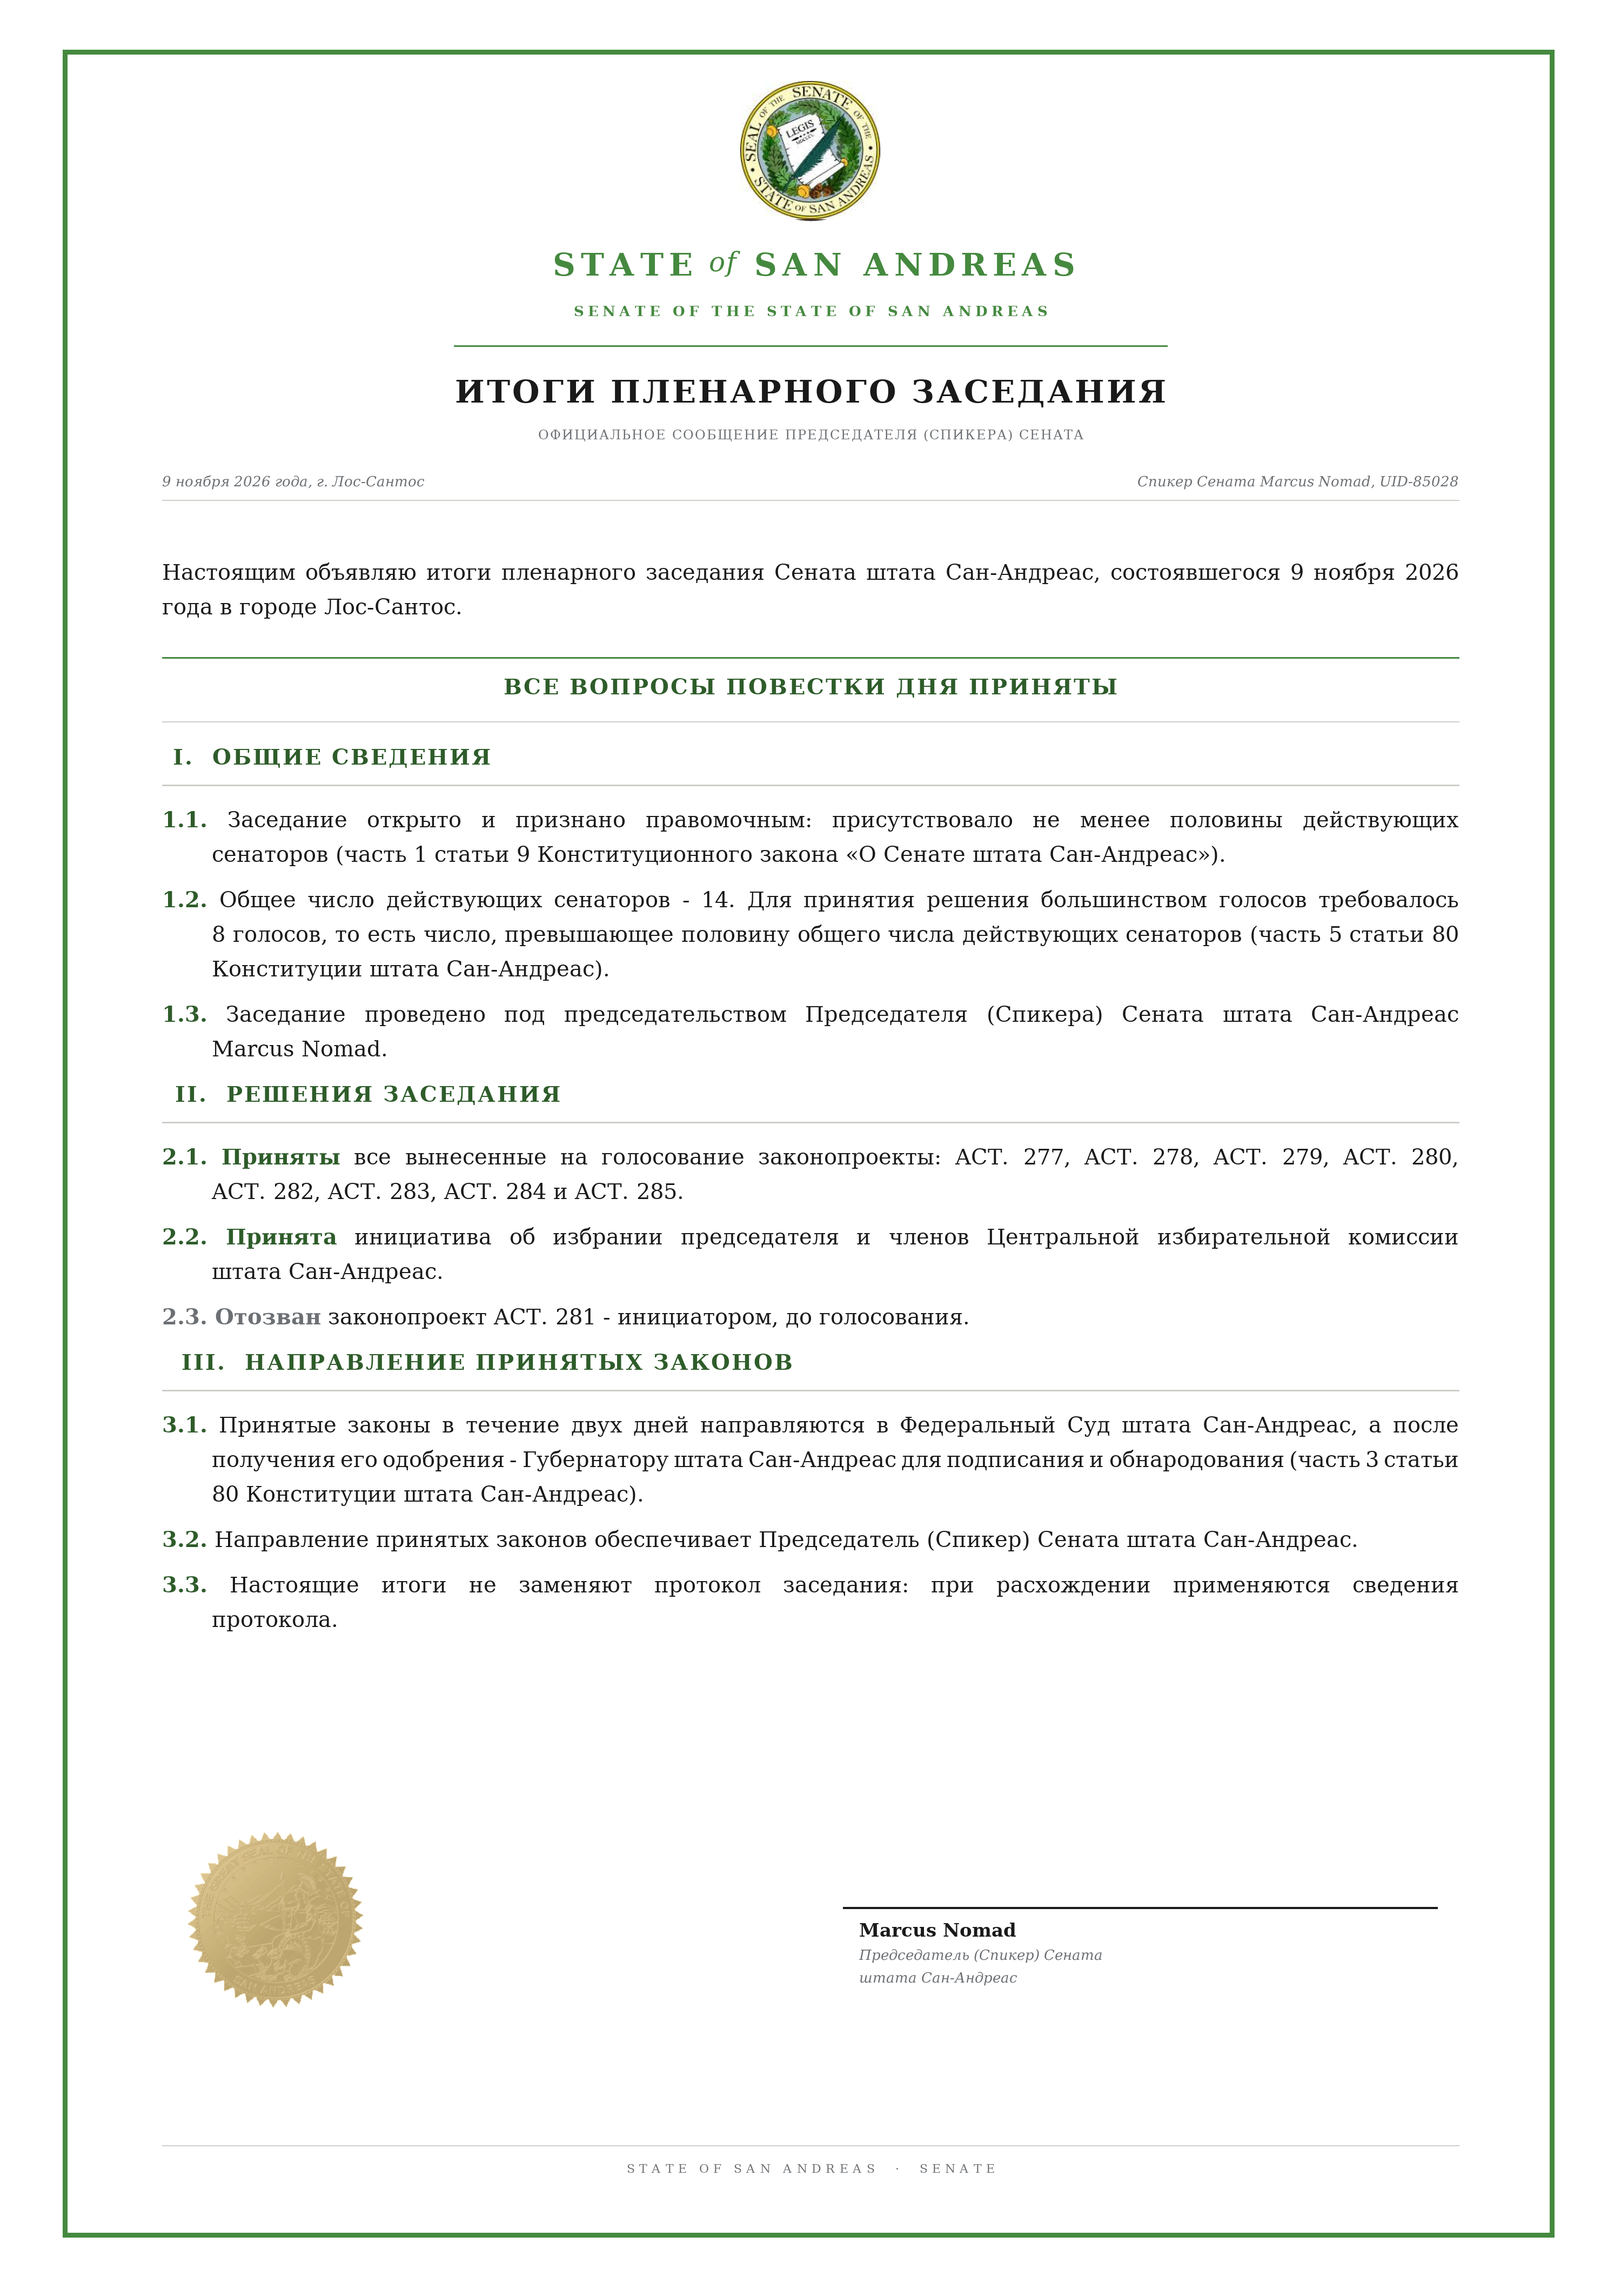
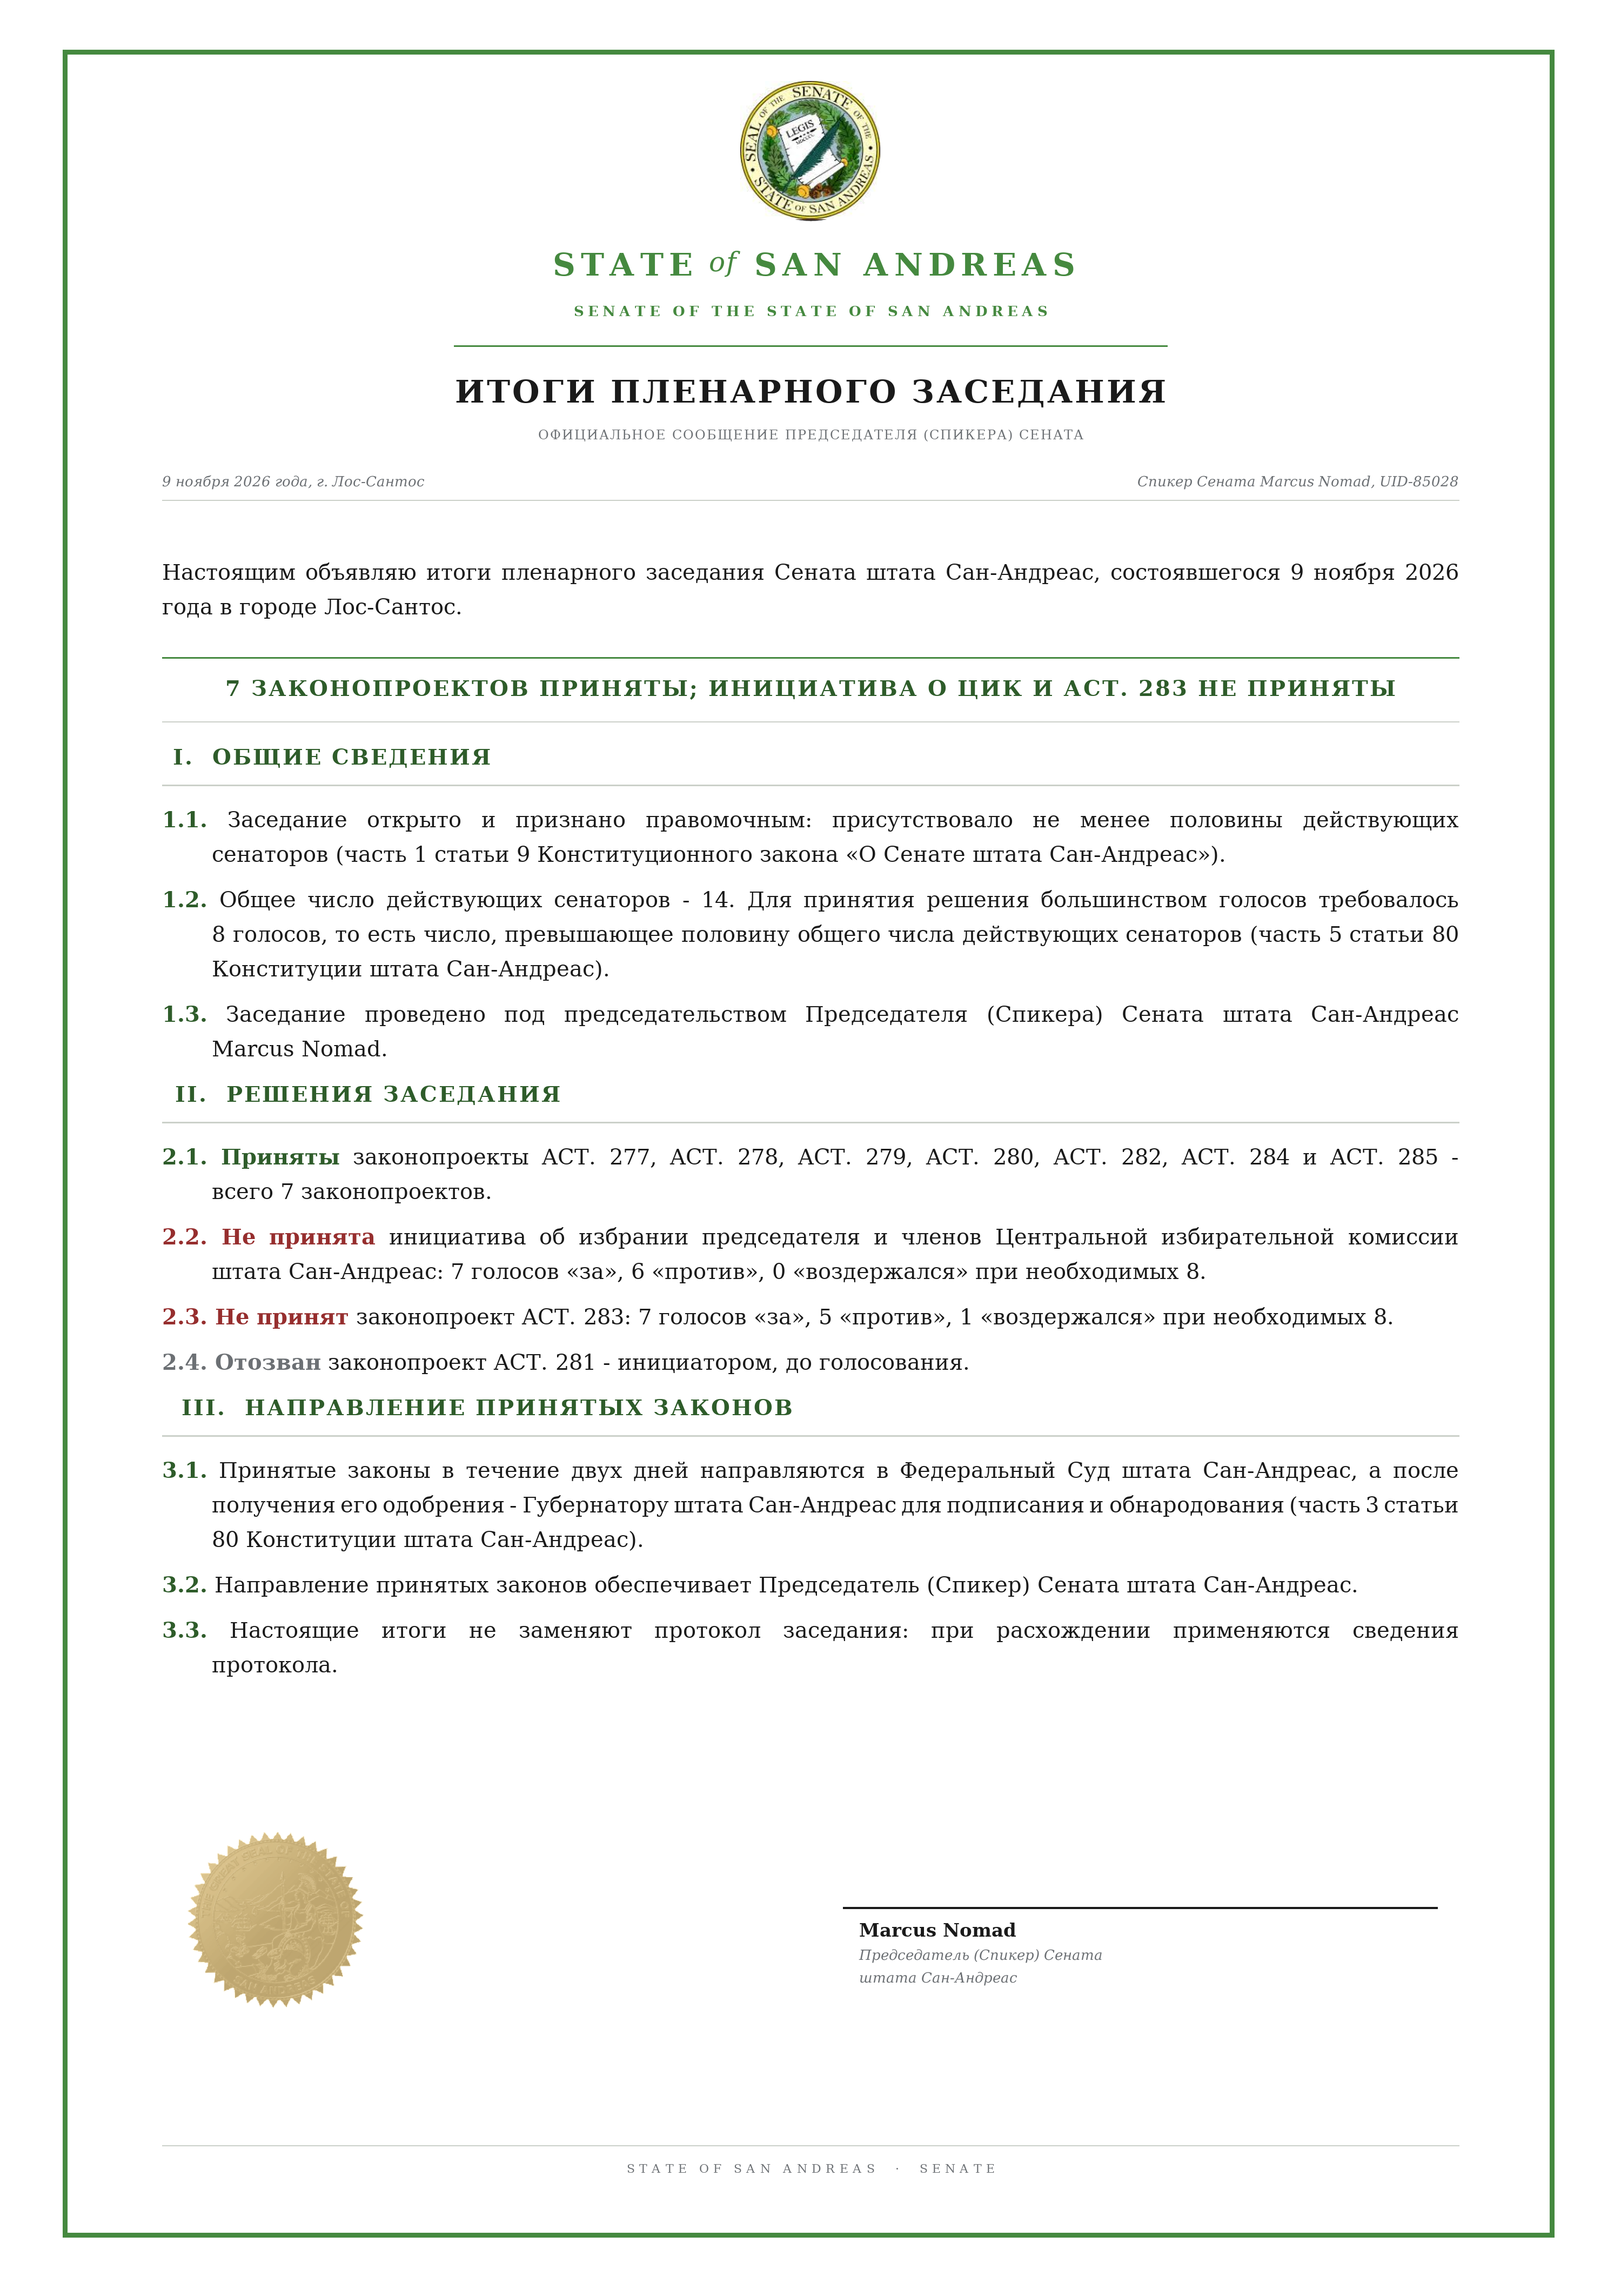
Сенат: итоги - ЦИК 7/6/0 и ACT. 283 7/5/1 не приняты, приняты 7 законопроектов

diff --git a/tools/make_senat_results_png.py b/tools/make_senat_results_png.py
@@ -163,13 +163,16 @@ def heading(d, y, text, size=30, draw=True):
 # ------------------------------------------------------------------ контент
 
 def essence(d, y, size, draw=True):
-    """Одна строка-суть вместо любых итогов голосования."""
+    """Одна строка-суть вместо итогов голосования."""
     h = 118
+    text = "7 ЗАКОНОПРОЕКТОВ ПРИНЯТЫ; ИНИЦИАТИВА О ЦИК И ACT. 283 НЕ ПРИНЯТЫ"
+    fs = 40
+    while fs > 22 and tw(d, text, F(FB, fs)) + 3 * (len(text) - 1) > BODY_W - 60:
+        fs -= 1
     if draw:
         d.line([(BODY_L, y), (BODY_R, y)], fill=GREEN, width=3)
         d.line([(BODY_L, y + h), (BODY_R, y + h)], fill=RULE, width=2)
-    tracked(d, y + 30, "ВСЕ ВОПРОСЫ ПОВЕСТКИ ДНЯ ПРИНЯТЫ",
-            F(FB, 40), 3, GREEN_D, draw=draw)
+        tracked(d, y + (h - fs) // 2 - 6, text, F(FB, fs), 3, GREEN_D, draw=draw)
     return y + h
 
 
@@ -202,12 +205,16 @@ def section_common(d, y, size, draw=True):
 def section_decisions(d, y, size, draw=True):
     items = [
         [("2.1. Приняты", "b", GREEN_D),
-         (" все вынесенные на голосование законопроекты: ACT. 277, ACT. 278, "
-          "ACT. 279, ACT. 280, ACT. 282, ACT. 283, ACT. 284 и ACT. 285.", "r", INK)],
-        [("2.2. Принята", "b", GREEN_D),
+         (" законопроекты ACT. 277, ACT. 278, ACT. 279, ACT. 280, ACT. 282, ACT. 284 и "
+          "ACT. 285 - всего 7 законопроектов.", "r", INK)],
+        [("2.2. Не принята", "b", RED),
          (" инициатива об избрании председателя и членов Центральной избирательной "
-          "комиссии штата Сан-Андреас.", "r", INK)],
-        [("2.3. Отозван", "b", MUTED),
+          "комиссии штата Сан-Андреас: 7 голосов «за», 6 «против», 0 «воздержался» "
+          "при необходимых 8.", "r", INK)],
+        [("2.3. Не принят", "b", RED),
+         (" законопроект ACT. 283: 7 голосов «за», 5 «против», 1 «воздержался» при "
+          "необходимых 8.", "r", INK)],
+        [("2.4. Отозван", "b", MUTED),
          (" законопроект ACT. 281 - инициатором, до голосования.", "r", INK)],
     ]
     return numbered(d, y, items, size, draw)

diff --git a/tools/build_senat_results.py b/tools/build_senat_results.py
@@ -28,7 +28,7 @@ LEAD = ("Настоящим Председатель (Спикер) Сената
 LEAD = ("Настоящим объявляю итоги пленарного заседания Сената штата Сан-Андреас, "
         "состоявшегося 9 ноября 2026 года в городе Лос-Сантос.")
 
-SUMMARY = "Все вопросы повестки дня приняты."
+SUMMARY = ("7 законопроектов приняты; инициатива о ЦИК и ACT. 283 не приняты.")
 
 COMMON = [
     "Заседание открыто и признано правомочным: присутствовало не менее половины "
@@ -44,11 +44,15 @@ COMMON = [
 ]
 
 DECISIONS = [
-    "Приняты все вынесенные на голосование законопроекты: ACT. 277, ACT. 278, ACT. 279, "
-    "ACT. 280, ACT. 282, ACT. 283, ACT. 284 и ACT. 285.",
+    "Приняты законопроекты ACT. 277, ACT. 278, ACT. 279, ACT. 280, ACT. 282, ACT. 284 и "
+    "ACT. 285 - всего 7 законопроектов.",
 
-    "Принята инициатива об избрании председателя и членов Центральной избирательной "
-    "комиссии штата Сан-Андреас.",
+    "Не принята инициатива об избрании председателя и членов Центральной избирательной "
+    "комиссии штата Сан-Андреас: 7 голосов «за», 6 «против», 0 «воздержался» при "
+    "необходимых 8.",
+
+    "Не принят законопроект ACT. 283: 7 голосов «за», 5 «против», 1 «воздержался» при "
+    "необходимых 8.",
 
     "Отозван законопроект ACT. 281 - инициатором, до голосования.",
 ]

diff --git a/Сенат/Итоги пленарного заседания (09.11.2026)/Итоги пленарного заседания Сената — 09.11.2026.md b/Сенат/Итоги пленарного заседания (09.11.2026)/Итоги пленарного заседания Сената — 09.11.2026.md
@@ -19,7 +19,7 @@ DOCX собирается `tools/build_senat_results.py`, PNG - `tools/make_sena
 Настоящим объявляю итоги пленарного заседания Сената штата Сан-Андреас, состоявшегося
 9 ноября 2026 года в городе Лос-Сантос.
 
-**Все вопросы повестки дня приняты.**
+**7 законопроектов приняты; инициатива о ЦИК и ACT. 283 не приняты.**
 
 ## ОБЩИЕ СВЕДЕНИЯ
 
@@ -33,11 +33,13 @@ DOCX собирается `tools/build_senat_results.py`, PNG - `tools/make_sena
 
 ## РЕШЕНИЯ ЗАСЕДАНИЯ
 
-1. Приняты все вынесенные на голосование законопроекты: ACT. 277, ACT. 278, ACT. 279,
-   ACT. 280, ACT. 282, ACT. 283, ACT. 284 и ACT. 285.
-2. Принята инициатива об избрании председателя и членов Центральной избирательной комиссии
-   штата Сан-Андреас.
-3. Отозван законопроект ACT. 281 - инициатором, до голосования.
+1. Приняты законопроекты ACT. 277, ACT. 278, ACT. 279, ACT. 280, ACT. 282, ACT. 284 и
+   ACT. 285 - всего 7 законопроектов.
+2. Не принята инициатива об избрании председателя и членов Центральной избирательной
+   комиссии штата Сан-Андреас: 7 голосов «за», 6 «против», 0 «воздержался» при необходимых 8.
+3. Не принят законопроект ACT. 283: 7 голосов «за», 5 «против», 1 «воздержался» при
+   необходимых 8.
+4. Отозван законопроект ACT. 281 - инициатором, до голосования.
 
 ## НАПРАВЛЕНИЕ ПРИНЯТЫХ ЗАКОНОВ
 
